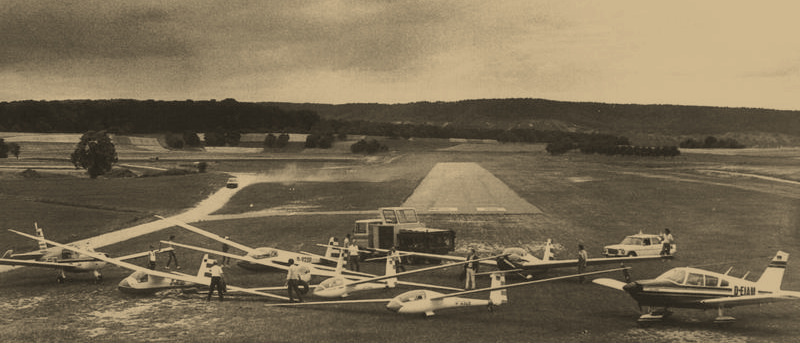
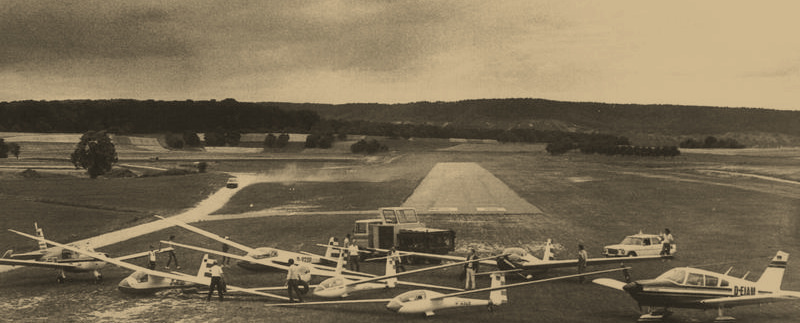
Update hero image alignment
Hero images should be aligned by their bottom edge to provide
consistency at different zoom levels.

diff --git a/assets/css/main.css b/assets/css/main.css
@@ -726,7 +726,7 @@ div.weglide {
   width: 100%;
   height: 100%;
   object-fit: cover;
-  object-position: center;
+  object-position: bottom;
 }
 
 .page-hero.has-hero-image::before {
